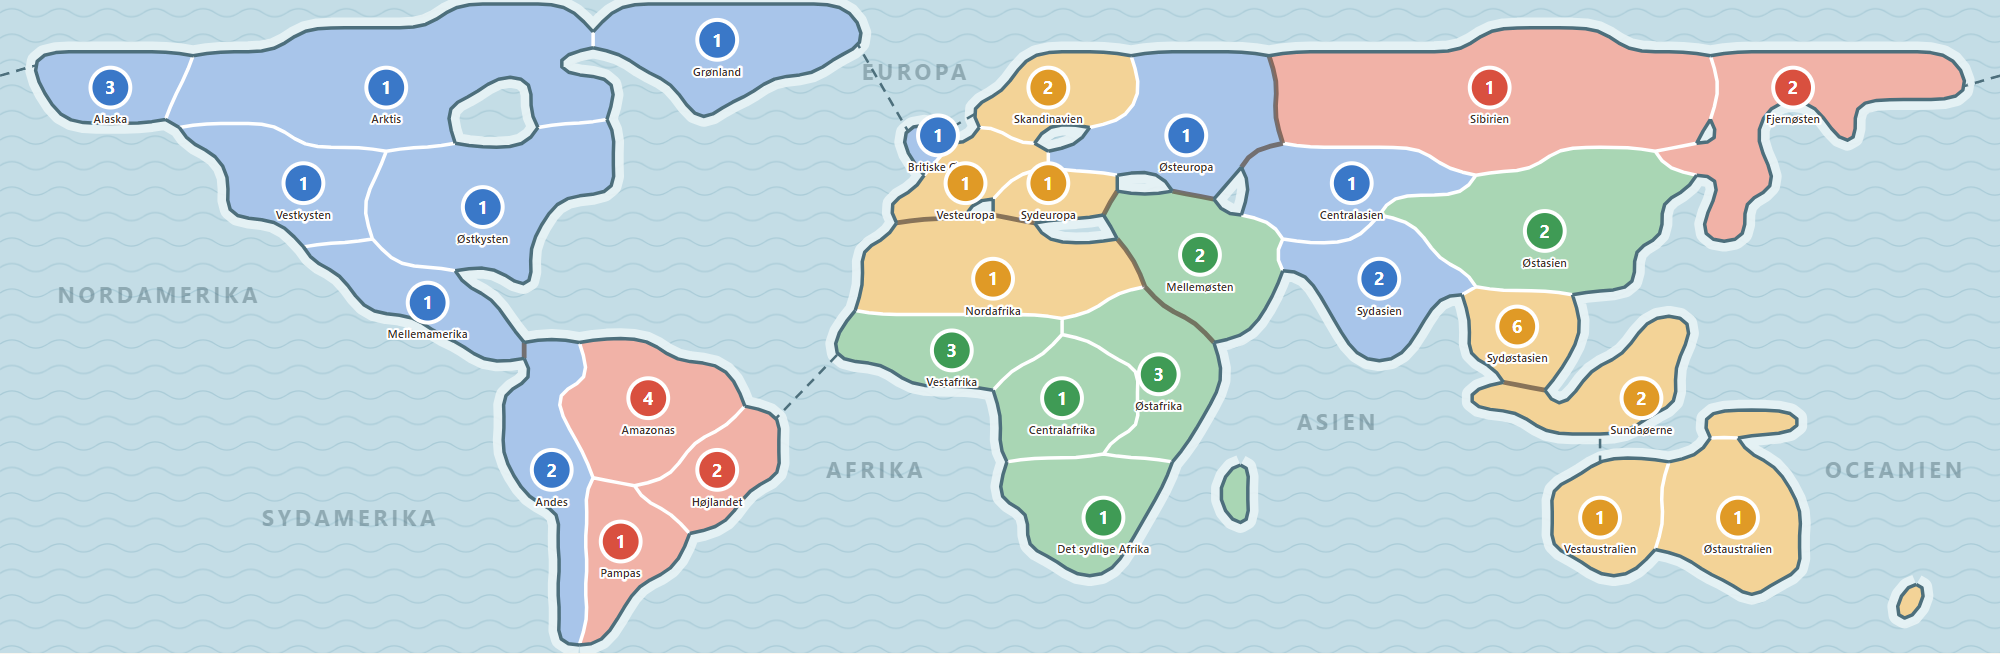
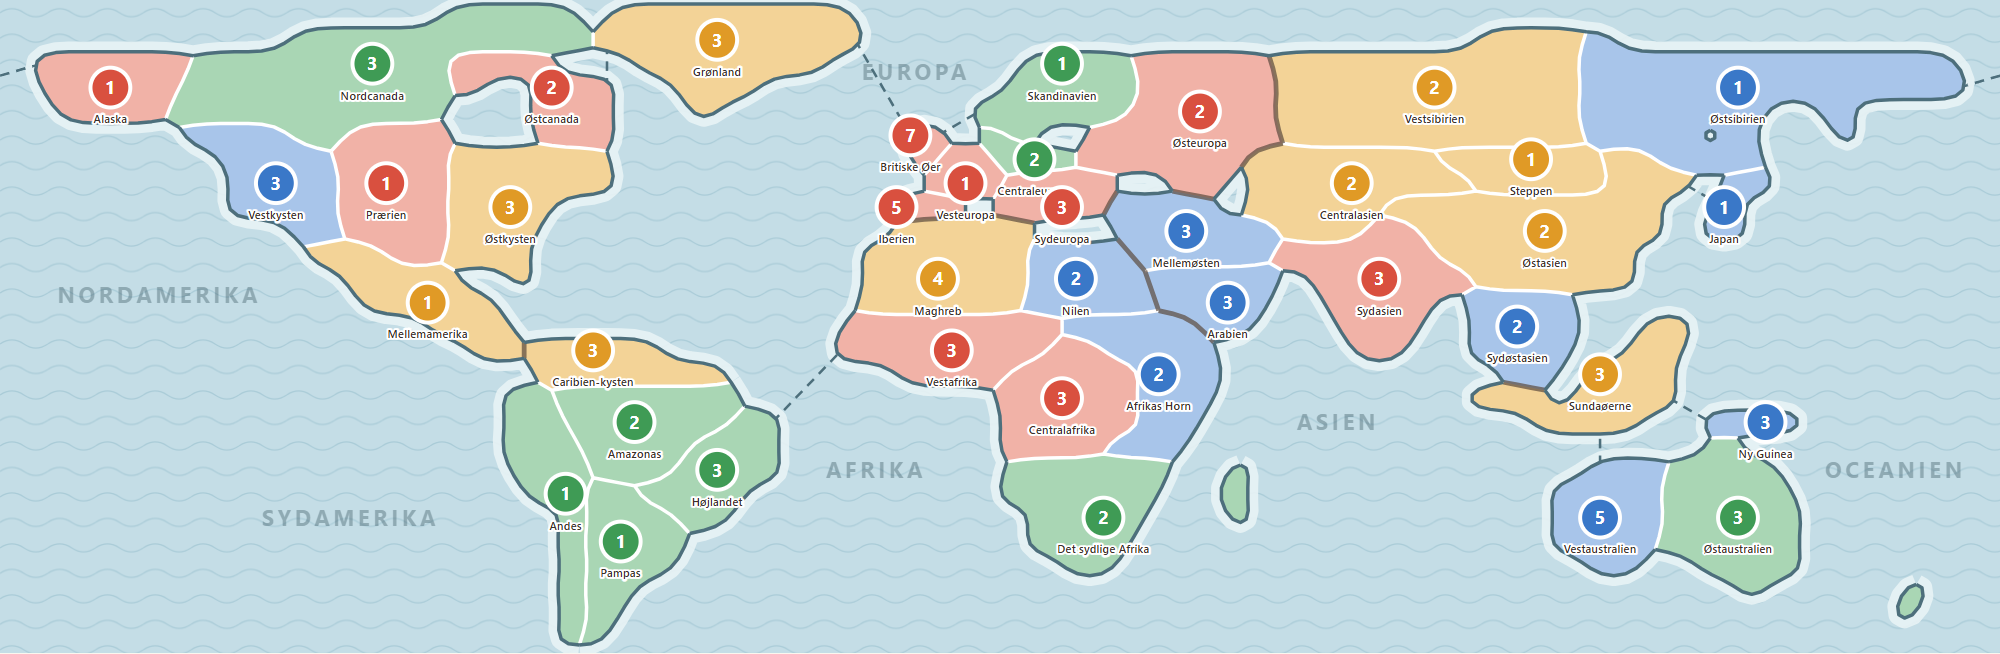
World map with 40 territories
Our own division, close to the classic size: North America 8, South
America 5, Europe 7, Africa 6, Asia 10, Oceania 4, split from the same
hex coastlines, with eight sea routes. Crowded territories (western
Europe, the Caribbean coast) get hand-placed seals and name sides so
everything stays readable on a phone and on the whole-map view.

North America + Oceania + one more was too easy (35% in bot games) and
became North America + Europe; every mission type now wins 18-30% of
4-player games. Seats stay even. Games take about 17 rounds with
missions and 27 with world conquest (4 players).

Mission and card buttons move onto the map so the player list keeps its
room. Saves move to conquest.v3, since older games were on other maps.

diff --git a/js/maps/world.js b/js/maps/world.js
@@ -1,4 +1,4 @@
-// The modern world map, first draft: 30 territories in 6 regions, drawn as a hex grid.
+// The modern world map, second draft: 40 territories in 6 regions, drawn as a hex grid.
 //
 // GRID is the map itself, one letter per hex, '.' is sea. Each column is 5° of longitude
 // (column 0 = 170° W, so the Pacific is at the edges) and each row 5° of latitude (row 0 = 80° N).
@@ -14,23 +14,23 @@
 
 export const GRID = [
   '................bbbbb.ggggggggg.........................................',
-  '..........bbbbbbbbbbbgggggggggg......................rrrrr..............',
-  '.aaaaaabbbbbbbbbbbbb...ggggggg.......sssseeeeerrrrrrrrrrrrrrrrfffffffff.',
-  '.aaaaabbbbbbbbbbb..bbb..ggg.........ssssseeeeerrrrrrrrrrrrrrrrfffffffff.',
-  '..aaaabbbbbbbbbb...bbb...g.........sssssseeeeerrrrrrrrrrrrrrrrff..f.....',
-  '......vvvvbbbbbb...ooo..........ii.ws..eeeeeeerrrrrrrrrrrrrrr.f...f.....',
-  '........vvvvvvoooooooo...........iwwwweeeeeeecccccccrrrrkkkkffff........',
-  '........vvvvvooooooooo...........wwwuuuu..ee.cccccccckkkkkkkk.ff........',
-  '........vvvvvooooooo............www.uuuuMMMM.ccccckkkkkkkkkk..f.........',
-  '..........vvvoooooo.............NNNNN...MMMMMMcccddkkkkkkkkk.ff.........',
-  '...........mmmooooo............NNNNNNNNNNMMMMMddddddkkkkkkk.............',
-  '............mmmm..o............NNNNNNNNNNMMMMM.ddddddkkkkkk.............',
-  '.............mmmmm.............NNNNNNNNNEEMMMM..dddd.tttt...............',
-  '...............mmm............WWWWWWWWEEEEEMM...ddd..tttt..zz...........',
-  '.................mmDDAAA......WWWWWWWWCCEEEE.....dd..tttt..zz...........',
-  '...................DDAAAAA......WWWWCCCCCEEE..........tt.zzz............',
+  '..........bbbbbbbbbbbgggggggggg......................rrrrn..............',
+  '.aaaaaabbbbbbbbbqqqq...ggggggg.......sssseeeeerrrrrrrrrrrnnnnnnnnnnnnnn.',
+  '.aaaaabbbbbbbbbbq..qqq..ggg.........ssssseeeeerrrrrrrrrrrnnnnnnnnnnnnnn.',
+  '..aaaabbbbbbbbbb...qqq...g.........sssssseeeeerrrrrrrrrrrnnnnnnn..n.....',
+  '......vvvvbbhhhh...qqq..........ii.ls..eeeeeeerrrrrrrrrrrnnnn.n...n.....',
+  '........vvvvhhhhoooooo...........iwwllleeeeeecccccccBBBBBBkknnnn........',
+  '........vvvvhhhhoooooo...........wwwuuuu..ee.ccccccccBBBBBkkk.JJ........',
+  '........vvvvhhhhoooo............jjj.uuuuMMMM.ccccckkkkkkkkkk..J.........',
+  '..........vvhhhhooo.............NNNNN...MMMMMMcccddkkkkkkkkk.JJ.........',
+  '...........mmmhhooo............NNNNNNLLLLMMMMMddddddkkkkkkk.............',
+  '............mmmm..o............NNNNNNLLLLRRRRR.ddddddkkkkkk.............',
+  '.............mmmmm.............NNNNNNLLLLLRRRR..dddd.tttt...............',
+  '...............mmm............WWWWWWWWEEEEERR...ddd..tttt..zz...........',
+  '.................mmKKKKK......WWWWWWWWCCEEEE.....dd..tttt..zz...........',
+  '...................KKKKKKK......WWWWCCCCCEEE..........tt.zzz............',
   '..................DDAAAAAAA.........CCCCCEEE.........zzz.zzzz...........',
-  '..................DDAAAAAAHH........CCCCCEE............zzzz..zzzz.......',
+  '..................DDAAAAAAHH........CCCCCEE............zzzz..GGGG.......',
   '..................DDDAAAAHHH........CCCCEEE...................y.........',
   '..................DDDAAAHHHH........SSSSSS..S............xxxyyyy........',
   '...................DDPPHHHH.........SSSSSS..S...........xxxxyyyyy.......',
@@ -54,55 +54,81 @@ export const REGIONS = {
 // letter: [id, name, region]
 export const TERRITORIES = {
   a: ['alaska', 'Alaska', 'na'],
-  b: ['arktis', 'Arktis', 'na'],
+  b: ['nordcanada', 'Nordcanada', 'na'],
+  q: ['oestcanada', 'Østcanada', 'na'],
   g: ['groenland', 'Grønland', 'na'],
   v: ['vestkysten', 'Vestkysten', 'na'],
+  h: ['praerien', 'Prærien', 'na'],
   o: ['oestkysten', 'Østkysten', 'na'],
   m: ['mellemamerika', 'Mellemamerika', 'na'],
+  K: ['caribien', 'Caribien-kysten', 'sa'],
   D: ['andes', 'Andes', 'sa'],
   A: ['amazonas', 'Amazonas', 'sa'],
   H: ['hoejlandet', 'Højlandet', 'sa'],
   P: ['pampas', 'Pampas', 'sa'],
   i: ['britiske-oeer', 'Britiske Øer', 'eu'],
   s: ['skandinavien', 'Skandinavien', 'eu'],
+  j: ['iberien', 'Iberien', 'eu'],
   w: ['vesteuropa', 'Vesteuropa', 'eu'],
+  l: ['centraleuropa', 'Centraleuropa', 'eu'],
   e: ['oesteuropa', 'Østeuropa', 'eu'],
   u: ['sydeuropa', 'Sydeuropa', 'eu'],
-  N: ['nordafrika', 'Nordafrika', 'af'],
+  N: ['maghreb', 'Maghreb', 'af'],
+  L: ['nilen', 'Nilen', 'af'],
   W: ['vestafrika', 'Vestafrika', 'af'],
   C: ['centralafrika', 'Centralafrika', 'af'],
-  E: ['oestafrika', 'Østafrika', 'af'],
+  E: ['afrikas-horn', 'Afrikas Horn', 'af'],
   S: ['sydlige-afrika', 'Det sydlige Afrika', 'af'],
   M: ['mellemoesten', 'Mellemøsten', 'as'],
+  R: ['arabien', 'Arabien', 'as'],
   c: ['centralasien', 'Centralasien', 'as'],
-  r: ['sibirien', 'Sibirien', 'as'],
-  f: ['fjernoesten', 'Fjernøsten', 'as'],
+  r: ['vestsibirien', 'Vestsibirien', 'as'],
+  n: ['oestsibirien', 'Østsibirien', 'as'],
+  B: ['steppen', 'Steppen', 'as'],
   d: ['sydasien', 'Sydasien', 'as'],
   k: ['oestasien', 'Østasien', 'as'],
   t: ['sydoestasien', 'Sydøstasien', 'as'],
+  J: ['japan', 'Japan', 'as'],
   z: ['sundaoeerne', 'Sundaøerne', 'oc'],
+  G: ['ny-guinea', 'Ny Guinea', 'oc'],
   x: ['vestaustralien', 'Vestaustralien', 'oc'],
   y: ['oestaustralien', 'Østaustralien', 'oc'],
 };
 
+// Where crowded territories put their seal and name: letter: [row, column, name side], side
+// 'below', 'above', 'left' or 'right'. The rest use the cell closest to the middle of the
+// territory, with the name below.
+export const PLACES = {
+  i: [5, 32, 'above'],
+  j: [8, 32, 'left'],
+  w: [7, 34, 'below'],
+  l: [6, 37, 'above'],
+  s: [2, 38, 'below'],
+  u: [8, 38, 'below'],
+  K: [14, 21, 'above'],
+};
+
 // Region missions for mission games (the engine adds "hold territories" and "knock out a player").
-// Each asks for about 10–12 territories; the small pairs need one more region of your choice.
+// Each asks for about 12–16 territories; the small pairs need one more region of your choice.
 export const MISSIONS = [
   { type: 'regions', regions: ['as', 'sa'] },
   { type: 'regions', regions: ['as', 'af'] },
   { type: 'regions', regions: ['na', 'af'] },
-  { type: 'regions', regions: ['na', 'oc'], plusOne: true },
+  { type: 'regions', regions: ['na', 'eu'] },
   { type: 'regions', regions: ['eu', 'sa'], plusOne: true },
   { type: 'regions', regions: ['eu', 'oc'], plusOne: true },
 ];
 
 // Crossings over water, drawn as dashed lines: [from, to].
 export const SEA = [
-  ['a', 'f'], // Beringstrædet
+  ['a', 'n'], // Beringstrædet
   ['g', 'i'], // over Island
   ['i', 's'], // Nordsøen
   ['H', 'W'], // Sydatlanten
   ['z', 'x'], // Timorhavet
+  ['z', 'G'], // Molukkerne
+  ['J', 'k'], // Koreastrædet
+  ['q', 'g'], // Davisstrædet
 ];
 
 /* ---------- geometry ---------- */
@@ -162,8 +188,11 @@ function build() {
     const pts = cells[l].map(([r, c]) => hexCenter(r, c));
     const mx = pts.reduce((n, p) => n + p[0], 0) / pts.length;
     const my = pts.reduce((n, p) => n + p[1], 0) / pts.length;
-    const [x, y] = pts.reduce((best, p) => (Math.hypot(p[0] - mx, p[1] - my) < Math.hypot(best[0] - mx, best[1] - my) ? p : best));
-    territories[id] = { name, region, adj: [...adj[l]].map((n) => TERRITORIES[n][0]), x, y, letter: l };
+    const [x, y] = PLACES[l]
+      ? hexCenter(PLACES[l][0], PLACES[l][1])
+      : pts.reduce((best, p) => (Math.hypot(p[0] - mx, p[1] - my) < Math.hypot(best[0] - mx, best[1] - my) ? p : best));
+    const label = PLACES[l]?.[2] ?? 'below';
+    territories[id] = { name, region, adj: [...adj[l]].map((n) => TERRITORIES[n][0]), x, y, label, letter: l };
   }
 
   const regions = {};

diff --git a/css/style.css b/css/style.css
@@ -102,9 +102,10 @@ button.icon { min-width: 48px; padding: 0; font-size: 22px; }
 #board .wax { stroke: #2b1d12; stroke-width: .12; }
 #board .rim { fill: none; stroke: #f4e8cc; stroke-width: .08; opacity: .7; }
 #board .count { font: 700 1.15px Georgia, serif; fill: #f4e8cc; text-anchor: middle; pointer-events: none; }
-#board .name { font: italic 1px Georgia, serif; fill: #3d2c1c; text-anchor: middle; paint-order: stroke; stroke: #f4e8cc; stroke-width: .25px; stroke-linejoin: round; pointer-events: none; }
+#board .name { font: italic 1px Georgia, serif; fill: #3d2c1c; paint-order: stroke; stroke: #f4e8cc; stroke-width: .25px; stroke-linejoin: round; pointer-events: none; }
 #board .seal.flash .wax { animation: pop .6s ease-out; }
 @keyframes pop { from { stroke: #fff6d8; stroke-width: .7; } }
+#board .name:not([text-anchor]) { text-anchor: middle; }
 #board .region-names text { font: italic 1.6px Georgia, serif; letter-spacing: .35px; fill: #7a2e1d; opacity: .55; text-anchor: middle; }
 #zoom { position: absolute; right: 10px; bottom: 10px; display: flex; flex-direction: column; gap: 6px; }
 #zoom button { box-shadow: var(--shadow); }
@@ -145,8 +146,8 @@ button.icon { min-width: 48px; padding: 0; font-size: 22px; }
 #stepper button { min-width: 56px; font-size: 24px; }
 #amount { min-width: 2.5em; text-align: center; font-size: 26px; font-weight: 700; }
 
-#hud-buttons { display: flex; gap: 6px; align-items: center; align-self: flex-start; }
-#hud-buttons button:not(.icon) { min-height: 40px; padding: 0 12px; font-size: 15px; }
+#hand-buttons { position: absolute; right: 10px; top: 10px; display: flex; gap: 6px; }
+#hand-buttons button { min-height: 40px; padding: 0 12px; font-size: 15px; box-shadow: var(--shadow); }
 
 /* ---------- dialogs ---------- */
 dialog {

diff --git a/js/board.js b/js/board.js
@@ -20,6 +20,13 @@ const REGION_PLACES = { na: [10, 19], sa: [22, 33], eu: [57.5, 5], af: [55, 30],
 const TAP_SLOP = 8; // px a finger may move and still count as a tap
 
 const n = (v) => +v.toFixed(2);
+// Where a territory's name goes relative to its seal.
+const NAME_AT = {
+  below: 'dy="2.45"',
+  above: 'dy="-1.75"',
+  left: 'x="-1.6" dy=".35" text-anchor="end"',
+  right: 'x="1.6" dy=".35" text-anchor="start"',
+};
 
 export function createBoard(svg, grid, map, { onTap }) {
   const shapes = mapShapes(grid);
@@ -68,7 +75,7 @@ export function createBoard(svg, grid, map, { onTap }) {
     <g class="seals">${T.map(
       (t, i) => `<g class="seal" data-t="${i}" transform="translate(${n(t.x)} ${n(t.y)})">
         <circle r="1.35" class="wax"/><circle r="1.08" class="rim"/>
-        <text class="count" dy=".4"></text><text class="name" dy="2.45">${t.name}</text></g>`,
+        <text class="count" dy=".4"></text><text class="name" ${NAME_AT[grid.WORLD.territories[t.id]?.label ?? 'below']}>${t.name}</text></g>`,
     ).join('')}</g>`;
 
   const washes = [...svg.querySelectorAll('.washes path')];

diff --git a/index.html b/index.html
@@ -10,15 +10,15 @@
 <body>
   <header id="hud">
     <ol id="players" aria-label="Spillere"></ol>
-    <div id="hud-buttons">
-      <button id="mission-btn" hidden>Mission</button>
-      <button id="cards-btn" hidden>Kort</button>
-      <button id="menu-btn" class="icon" aria-label="Nyt spil">☰</button>
-    </div>
+    <button id="menu-btn" class="icon" aria-label="Nyt spil">☰</button>
   </header>
 
   <main id="board-wrap">
     <svg id="board" role="img" aria-label="Kortet"></svg>
+    <div id="hand-buttons">
+      <button id="mission-btn" hidden>Mission</button>
+      <button id="cards-btn" hidden>Kort</button>
+    </div>
     <div id="zoom">
       <button id="zoom-in" class="icon" aria-label="Zoom ind">+</button>
       <button id="zoom-out" class="icon" aria-label="Zoom ud">−</button>

diff --git a/js/app.js b/js/app.js
@@ -10,8 +10,8 @@ import * as WORLD from './maps/world.js';
 import { MODERN } from './rules/modern.js';
 import { createBoard, PLAYER_COLORS as COLORS } from './board.js';
 
-// v1 saves were games on the 12-territory test map; they cannot be replayed on the world map.
-const KEY = 'conquest.v2';
+// Saves only replay on the map they were played on: v1 was the test map, v2 the 30-territory world.
+const KEY = 'conquest.v3';
 const DELAY = { normal: 650, fast: 140 };
 
 const map = G.prepareMap(WORLD.WORLD);

diff --git a/DESIGN.md b/DESIGN.md
@@ -19,8 +19,8 @@ Intet. Prototypen er bevidst grim.
 | # | Hvad | Du beslutter / tegner | Claude leverer |
 |---|---|---|---|
 | 1 | **Kortstil** | Udtrykket: papirkort, flat/low-poly, neon, brætspil … Gerne 2–3 billeder til inspiration | ✅ **Valgt: B, gammelt papirkort** (24/10-2026). Bygget ind i spillet (`js/board.js`). Stilprøverne ligger stadig i `design/` |
-| 2 | **Territorie-inddeling** | Hvor grænserne går, og hvad de ca. 24–30 territorier og 5–6 regioner hedder | ✅ Udkast: 30 territorier i 6 regioner i `js/maps/world.js` (bogstaver i et sekskantgitter, så det er let at rette). Tegnet i hånden, ingen fremmede kortdata |
-| 3 | **Havruter og regionsbonus** | Hvilke forbindelser over vand, der skal findes | ✅ Udkast: 5 havruter, bonus ud fra antal indgange. Bot-spil: retfærdigt ved 3–4 spillere |
+| 2 | **Territorie-inddeling** | Hvor grænserne går, og hvad de ca. 24–30 territorier og 5–6 regioner hedder | ✅ Udkast 2: 40 territorier i 6 regioner (8/5/7/6/10/4) i `js/maps/world.js` (bogstaver i et sekskantgitter, så det er let at rette). Egen inddeling, tegnet i hånden, ingen fremmede kortdata |
+| 3 | **Havruter og regionsbonus** | Hvilke forbindelser over vand, der skal findes | ✅ Udkast: 8 havruter, bonus ud fra antal indgange. Bot-spil: retfærdigt ved 2–4 spillere |
 | 4 | **Spillerfarver** | 6 farver, der kan skelnes af farveblinde, plus et symbol eller mønster pr. spiller | Farvetjek i lyst og mørkt tema |
 | 5 | **Hærvisning** | Tal i en cirkel, små figurer eller faner? Hvordan ser 1, 12 og 87 ud? | Prototype af 2 varianter |
 | 6 | **Kortsymboler** | 3 symboler + joker til kort-sættene (eget motiv, fx stjerne/skjold/krone) | – |

diff --git a/README.md b/README.md
@@ -38,7 +38,7 @@ og kun viser hver spiller `view(state, spiller)`.
 
 ## Status
 Milepæl 1 (regelmotor og tests), 2 (spilbar prototype mod computeren og flere på samme telefon) og 3 (normal bot)
-er færdige. Næste: det rigtige kort og grafikken (milepæl 4), se `DESIGN.md`. Gemmes i `localStorage` under `conquest.v2` som opsætning + handlinger (v1 var spil på testkortet).
+er færdige. Næste: det rigtige kort og grafikken (milepæl 4), se `DESIGN.md`. Gemmes i `localStorage` under `conquest.v3` som opsætning + handlinger (v1: testkortet, v2: verden med 30 områder).
 
 Balance: den, der starter, har en fordel (uden udligning vinder spiller 1 ca. 73 % af 2-mandsspillene på
 verdenskortet). Derfor starter senere pladser med flere hære (`laterSeatArmies`: +6 ved 2 spillere, +1 pr. plads
@@ -49,6 +49,5 @@ På det lille testkort er forskellen mindre: spillene er så korte, at startopst
 
 Ingen licens: alle rettigheder forbeholdes.
 
-Missioner (verdenskortet, 4 normale bots): spillene varer ca. 12 runder mod 18 ved "erobr verden", og hver
-missionstype vinder 19–30 % af gangene (rimelig andel 25 %). "Hold 11 områder med 2 hære i hvert" er sværest for
-botterne, fordi de samler hærene på én front.
+Verdenskortet har 40 områder. Med 4 normale bots varer et missionsspil ca. 17 runder og "erobr verden" ca. 27.
+Hver missionstype vinder 18–30 % af gangene (rimelig andel 25 %).
